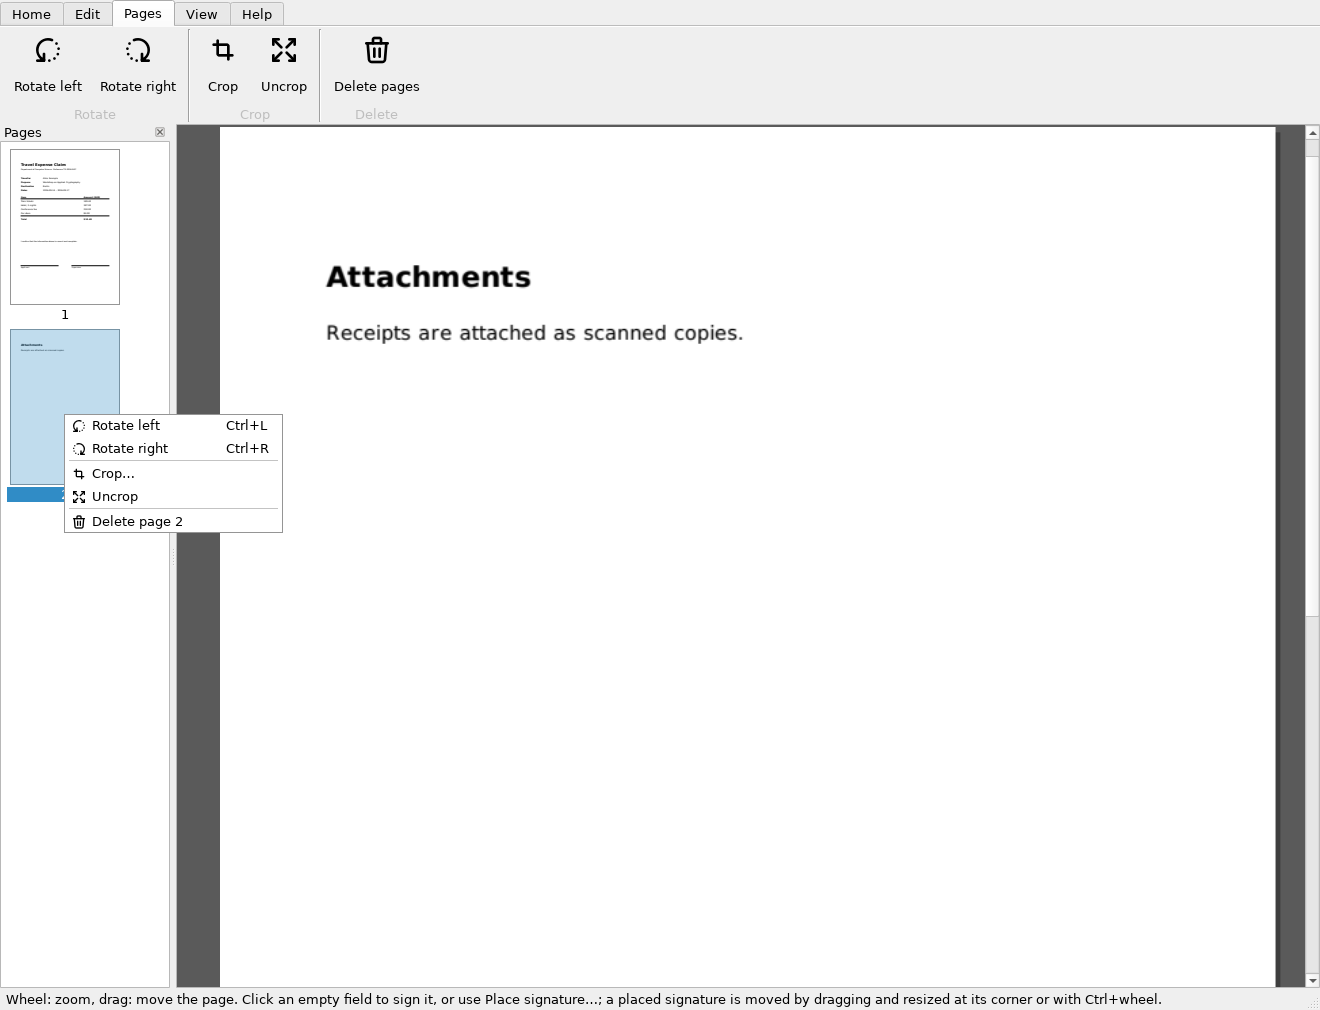
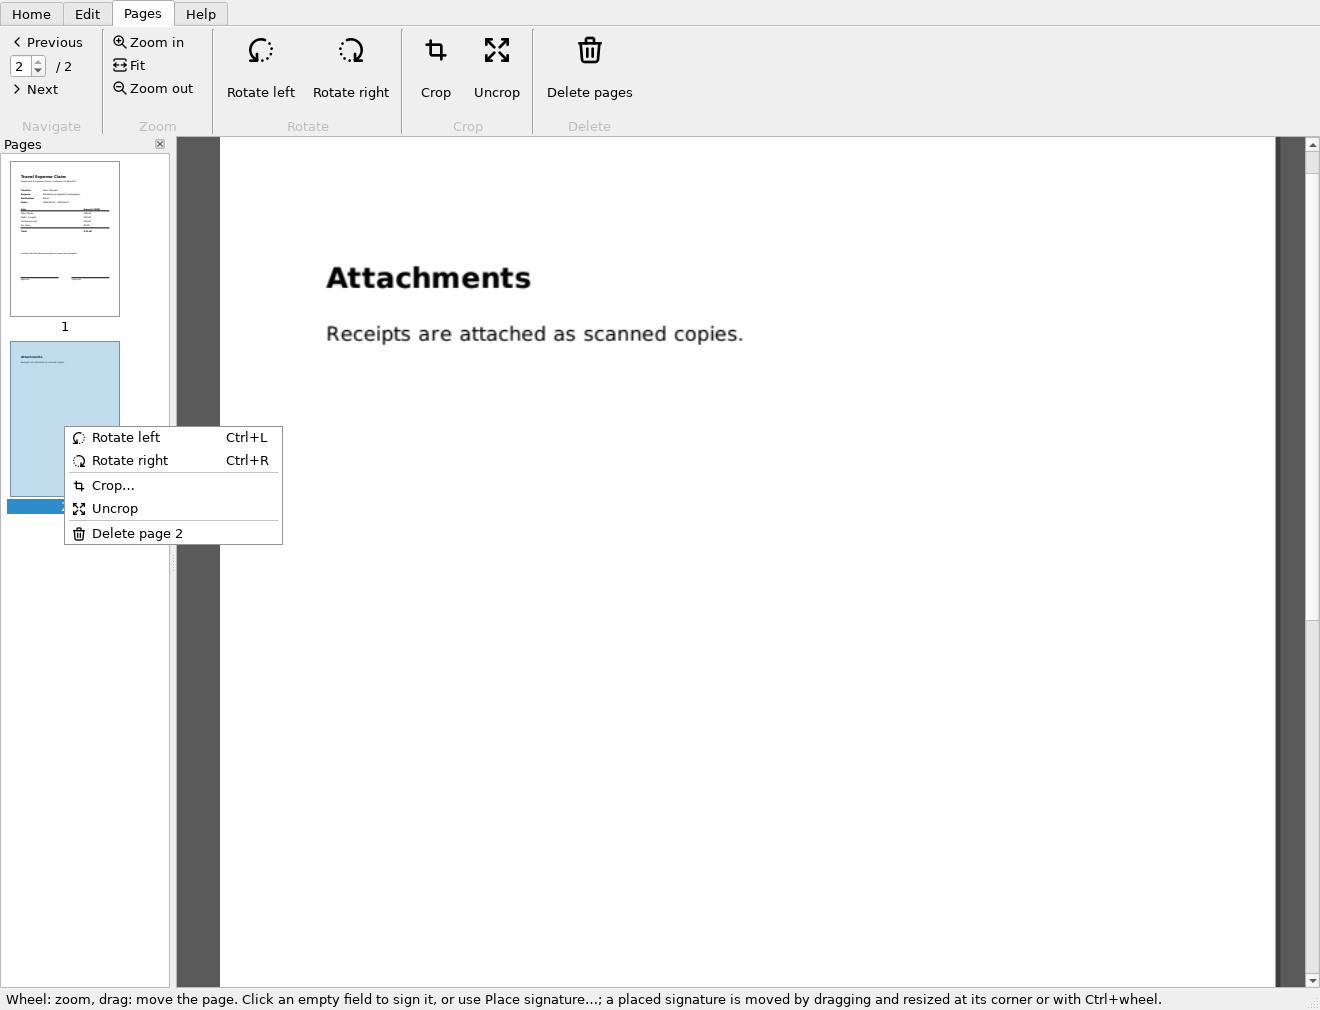
Ribbon: View merges into Pages, the Pages panel toggle moves to Home
Navigation and zoom (as compact small buttons) join the page tools in
one Pages tab, so the ribbon has Home, Edit, Pages and Help. Showing or
hiding the Pages panel is now a Home button (View group).

diff --git a/src/slim_pdf/gui/app.py b/src/slim_pdf/gui/app.py
@@ -278,6 +278,12 @@ class MainWindow(QMainWindow):
         row.addStretch()
         fl.addRow(_("Stamp shows:"), stamp)
         g.add_widget(form)
+        g = home.group(_("View"))
+        panel = self.pages_dock.toggleViewAction()
+        panel.setIcon(ribbon.icon("layout-sidebar"))
+        panel.setText(_("Pages panel"))
+        panel.setToolTip(_("Show or hide the page thumbnails on the left"))
+        g.add(panel)
         g = home.group(_("Options"))
         g.add(self.settings_act)
 
@@ -286,7 +292,21 @@ class MainWindow(QMainWindow):
         g.add(self.insert_text_act)
         g.add(self.insert_image_act)
 
+        # pages: looking at them and changing them, in one tab
         pages_tab = rb.tab(_("Pages"))
+        g = pages_tab.group(_("Navigate"))
+        g.add(self.prev_act, large=False)
+        spin = QWidget()
+        row = QHBoxLayout(spin)
+        row.setContentsMargins(4, 0, 4, 0)
+        row.addWidget(self.page_spin)
+        row.addWidget(self.page_count)
+        g.add_widget(spin)
+        g.add(self.next_act, large=False)
+        g = pages_tab.group(_("Zoom"))
+        g.add(self.zoom_in_act, large=False)
+        g.add(self.fit_act, large=False)
+        g.add(self.zoom_out_act, large=False)
         g = pages_tab.group(_("Rotate"))
         g.add(self.rotate_left_act)
         g.add(self.rotate_right_act)
@@ -295,25 +315,6 @@ class MainWindow(QMainWindow):
         g.add(self.uncrop_act)
         g = pages_tab.group(_("Delete"))
         g.add(self.delete_pages_act)
-
-        view = rb.tab(_("View"))
-        g = view.group(_("Navigate"))
-        g.add(self.prev_act)
-        spin = QWidget()
-        row = QHBoxLayout(spin)
-        row.setContentsMargins(4, 0, 4, 0)
-        row.addWidget(self.page_spin)
-        row.addWidget(self.page_count)
-        g.add_widget(spin)
-        g.add(self.next_act)
-        g = view.group(_("Zoom"))
-        g.add(self.zoom_out_act)
-        g.add(self.fit_act)
-        g.add(self.zoom_in_act)
-        g = view.group(_("Panels"))
-        panel = self.pages_dock.toggleViewAction()
-        panel.setIcon(ribbon.icon("layout-sidebar"))
-        g.add(panel)
 
         help_tab = rb.tab(_("Help"))
         g = help_tab.group(_("Help"))

diff --git a/tests/test_gui.py b/tests/test_gui.py
@@ -1535,9 +1535,11 @@ def test_ribbon_tabs_and_about(window, monkeypatch):
     """The ribbon replaces the toolbars; Help → About names the version."""
     rb = window.ribbon
     assert window.menuWidget() is rb
-    assert [rb.tabText(i) for i in range(rb.count())] == ["Home", "Edit", "Pages", "View",
-                                                          "Help"]
+    assert [rb.tabText(i) for i in range(rb.count())] == ["Home", "Edit", "Pages", "Help"]
     home = [b.defaultAction() for b in rb.tab_page(0).findChildren(QtWidgets.QToolButton)]
+    # the Pages panel is shown or hidden from Home
+    assert window.pages_dock.toggleViewAction() in home
+    assert window.pages_dock.toggleViewAction().text() == "Pages panel"
     assert window.open_act in home and window.sign_act in home
     # everything the sign panel had as controls is in the ribbon now
     assert window.settings_act in home and window.clear_act in home

diff --git a/tests/test_gui_pages.py b/tests/test_gui_pages.py
@@ -215,7 +215,9 @@ def test_page_tools_are_in_the_context_menu(window, blank_pdf):
     assert texts == ["Rotate left", "Rotate right", "Crop…", "Uncrop", "Delete page 1"]
     pages_tab = window.ribbon.tab_page(2)
     buttons = [b.defaultAction().text() for b in pages_tab.findChildren(QtWidgets.QToolButton)]
-    assert buttons == ["Rotate left", "Rotate right", "Crop…", "Uncrop", "Delete pages"]
+    # with viewing them: navigation and zoom in the same tab
+    assert buttons == ["Previous", "Next", "Zoom in", "Fit", "Zoom out", "Rotate left",
+                       "Rotate right", "Crop…", "Uncrop", "Delete pages"]
     assert window.rotate_left_act.shortcut().toString() == "Ctrl+L"  # shortcuts still work
 
 

diff --git a/tests/test_i18n.py b/tests/test_i18n.py
@@ -173,7 +173,7 @@ def test_gui_in_german(german, qapp_de):
         box = dlg.findChild(QDialogButtonBox)
         assert box.button(QDialogButtonBox.Cancel).text().replace("&", "") == "Abbrechen"
         assert [win.ribbon.tabText(i) for i in range(win.ribbon.count())] == [
-            "Start", "Bearbeiten", "Seiten", "Ansicht", "Hilfe"]
+            "Start", "Bearbeiten", "Seiten", "Hilfe"]
         # a narrow window scrolls the ribbon instead of growing to fit it
         assert win.ribbon.minimumSizeHint().width() < 500
     finally:

diff --git a/tests/test_gui_forms.py b/tests/test_gui_forms.py
@@ -25,7 +25,7 @@ def test_side_panel_follows_the_ribbon_tab(window, fill_pdf):
     rb.setCurrentIndex(gui_app.EDIT_TAB)
     assert dock.isVisible() and window.side_stack.currentWidget() is window.form_panel
     assert dock.windowTitle() == "Form"
-    for tab in range(2, rb.count()):  # Pages, View, Help
+    for tab in range(2, rb.count()):  # Pages, Help
         rb.setCurrentIndex(tab)
         assert not dock.isVisible()
     rb.setCurrentIndex(gui_app.HOME_TAB)

diff --git a/docs/gui.md b/docs/gui.md
@@ -22,15 +22,14 @@ guide show the English version.
   * *Home:* **Open…** (`Ctrl+O`), **Save**, **Save as…**, **Undo**;
     **Place signature… / Sign…** (`Ctrl+S`) and **Remove signature box**
     (`Esc`); the signature's settings: **Sign with** (the certificate),
-    **Stamp shows** *Image* and/or *Text*; **Settings…** (also for the
-    certificates).
+    **Stamp shows** *Image* and/or *Text*; **Pages panel** (show or hide the
+    thumbnails); **Settings…** (also for the certificates).
   * *Edit:* **Text…** and **Image…** (see
     [Adding text and images](#adding-text-and-images)); the form is in the
     side panel (see [Filling in forms](#filling-in-forms)).
-  * *Pages:* rotate, crop and delete pages (see [Page tools](#page-tools)).
-  * *View:* move between pages (`PgUp`/`PgDown`, or type the page number),
-    zoom (`Ctrl +`/`Ctrl -`, *Fit* = fit width), show or hide the *Pages*
-    panel.
+  * *Pages:* move between pages (`PgUp`/`PgDown`, or type the page number),
+    zoom (`Ctrl +`/`Ctrl -`, *Fit* = fit width); rotate, crop and delete
+    pages (see [Page tools](#page-tools)).
   * *Help:* **Documentation** (`F1`, this guide online), **About Slim PDF**
     (version, and the libraries it is built on).
 
